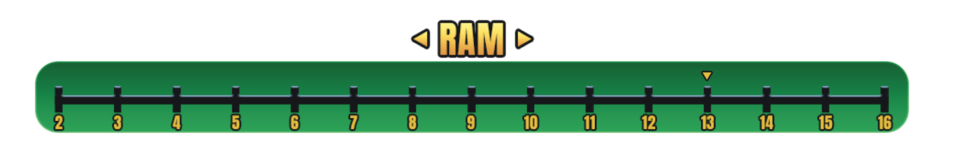
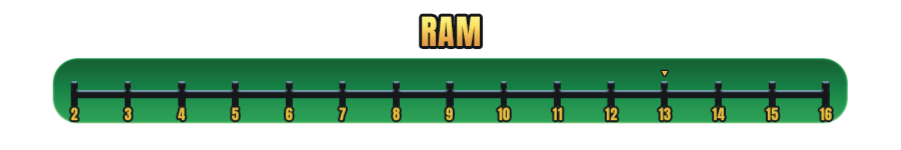
Mise en place des nouveaux renders

Changed region(s): [[0.0311, 0.08, 0.9634, 0.8267]]

diff --git a/src/main/java/fr/pixelmonworld/panels/main/MainPanel.java b/src/main/java/fr/pixelmonworld/panels/main/MainPanel.java
@@ -12,6 +12,7 @@ import fr.pixelmonworld.panels.ram.RamPanel;
 import org.pushingpixels.radiance.animation.api.Timeline;
 
 import javax.swing.*;
+import java.awt.*;
 import java.io.IOException;
 import java.util.Objects;
 
@@ -81,45 +82,48 @@ public class MainPanel extends DefaultLauncherPanel {
 
         // Ajout du logo
         JLabel logo = new JLabel(logoIcon);
-        logo.setBounds(width / 2 - logoIcon.getIconWidth() / 2, 0, logoIcon.getIconWidth(), logoIcon.getIconHeight());
+        logo.setBounds((width - logoIcon.getIconWidth()) / 2, 0, logoIcon.getIconWidth(), logoIcon.getIconHeight());
         this.add(logo);
 
         ImageIcon renderIcon = new ImageIcon(getRandomRenderImage());
 
         // Ajout de l'alerte de news
-        newsAlert = new NewsAlert(this, 40, 255);
+        newsAlert = new NewsAlert(this, 40, 220);
         String isNews = MainFrame.getSaver().get("news");
         newsAlert.setVisible(isNews != null && isNews.equals("true"));
         this.add(newsAlert);
         this.add(new NewsPanel(this, renderIcon.getIconWidth(), renderIcon.getIconHeight(), newsAlert.getX(), newsAlert.getY()));
 
         // Ajout du panel avec l'ensemble des boutons
-        this.add(new ButtonsPanel(this, 483, 702, 1408, 249));
+        this.add(new ButtonsPanel(this, 402, 585, 1174, 206));
 
         // Ajout du panel de connexion
-        this.add(new ConnexionPanel(this, 483, 271, 1408, 976));
+        this.add(new ConnexionPanel(this, 402, 226, 1174, 813));
+
+        // Utilisé pour centrer des éléments par rapport à la fenêtre de visualisation des renders
+        Rectangle rendersWindow = new Rectangle(27, 209, 1125, 831);
 
         // Ajout du panel de ram
-        this.add(new RamPanel(this, 954, 165, 257, 1100));
+        this.add(new RamPanel(this, rendersWindow.width, 150, (int) rendersWindow.getX(), (int) (rendersWindow.getHeight() + rendersWindow.getY() - 150)));
 
         // Ajout du bouton de fermeture
-        this.add(new CloseButton(this, 220));
+        this.add(new CloseButton(this,height - backgroundIcon.getIconHeight()));
 
         render = new RenderJLabel(renderIcon);
 
         // Ajout de la structure de la fenêtre
         JLabel background = new JLabel(backgroundIcon);
-        background.setBounds(0, 0, backgroundIcon.getIconWidth(), backgroundIcon.getIconHeight());
+        background.setBounds(width - backgroundIcon.getIconWidth(), height - backgroundIcon.getIconHeight(), backgroundIcon.getIconWidth(), backgroundIcon.getIconHeight());
         this.add(background);
 
         // Ajout du screen ingame
-        render.setBounds(-81, 215, render.getIcon().getIconWidth(), render.getIcon().getIconHeight());
+        render.setBounds(0, 185, render.getIcon().getIconWidth(), render.getIcon().getIconHeight());
         render.setVisible(true);
         this.add(render);
 
         // Ajout du screen ingame
         render2 = new RenderJLabel(fill);
-        render2.setBounds(-81, 215, render.getIcon().getIconWidth(), render.getIcon().getIconHeight());
+        render2.setBounds(0, 185, render.getIcon().getIconWidth(), render.getIcon().getIconHeight());
         render2.setVisible(false);
         this.add(render2);
 

diff --git a/src/main/java/fr/pixelmonworld/panels/ram/RamPanel.java b/src/main/java/fr/pixelmonworld/panels/ram/RamPanel.java
@@ -38,17 +38,19 @@ public class RamPanel extends DefaultLauncherPanel implements SwingerEventListen
         super(parent, width, height, x, y);
 
         // Bouton permettant de baisser la ram
-        moins = new STexturedButton(getBufferedImage("other/fill.png"), getBufferedImage("other/fill.png"));
-        moins.setBounds(400, 20, 40, 40);
+        moins = new STexturedButton(getBufferedImage("ram/ram_left.png"), getBufferedImage("ram/ram_left.png"));
+        moins.setBounds(this.getWidth() / 2 - 70, 10, 40, 40);
         moins.setCursor(Cursor.getPredefinedCursor(Cursor.HAND_CURSOR));
         moins.addEventListener(this);
+        this.setOpaque(true);
         this.add(moins);
 
         // Bouton permettant d'augmenter la ram
-        plus = new STexturedButton(getBufferedImage("other/fill.png"), getBufferedImage("other/fill.png"));
-        plus.setBounds(500, 20, 40, 40);
+        plus = new STexturedButton(getBufferedImage("ram/ram_right.png"), getBufferedImage("ram/ram_right.png"));
+        plus.setBounds(this.getWidth() / 2 + 30, 10, 40, 40);
         plus.setCursor(Cursor.getPredefinedCursor(Cursor.HAND_CURSOR));
         plus.addEventListener(this);
+        this.setOpaque(true);
         this.add(plus);
 
         // Permet de définir l'affichage de ram par défaut
@@ -63,7 +65,7 @@ public class RamPanel extends DefaultLauncherPanel implements SwingerEventListen
         // Permet de récupérer le background associé à l'endroit de la flèche attendu
         ImageIcon backgroundIcon = new ImageIcon(Objects.requireNonNull(getBufferedImage("ram/ram_" + Launcher.getRam() + ".png")));
         background = new JLabel(backgroundIcon);
-        background.setBounds(0, 0, backgroundIcon.getIconWidth(), backgroundIcon.getIconHeight());
+        background.setBounds((this.getWidth() - backgroundIcon.getIconWidth()) / 2, (this.getHeight() - backgroundIcon.getIconHeight()) / 2, backgroundIcon.getIconWidth(), backgroundIcon.getIconHeight());
         this.add(background);
         this.repaint();
     }

diff --git a/src/main/java/fr/pixelmonworld/panels/buttons/ButtonsPanel.java b/src/main/java/fr/pixelmonworld/panels/buttons/ButtonsPanel.java
@@ -35,27 +35,33 @@ public class ButtonsPanel extends DefaultLauncherPanel {
     public ButtonsPanel(Component parent, int width, int height, int x, int y) throws IOException {
         super(parent, width, height, x, y);
 
+        int currentY = 60;
+
         // Ajout du logo d'erreur
-        this.add(genererImage(60, new ImageIcon(errorLogoImage)));
+        this.add(genererImage(currentY, new ImageIcon(errorLogoImage)));
 
+        currentY += 80;
         // Ajout du texte d'erreur
-        this.add(genererImage(160, new ImageIcon(errorTextImage)));
+        this.add(genererImage(currentY, new ImageIcon(errorTextImage)));
 
+        currentY += 60;
         // Ajout du bouton Update Java
-        this.add(new JavaButton(this, 235));
+        this.add(new JavaButton(this, currentY));
 
+        currentY += 80;
         // Ajout du logo discord
-        this.add(genererImage(360, new ImageIcon(discordLogoImage)));
-
+        this.add(genererImage(currentY, new ImageIcon(discordLogoImage)));
+        currentY += 80;
         // Ajout du texte "Rejoins-nous !"
-        this.add(genererImage(460, new ImageIcon(discordTextImage)));
-
+        this.add(genererImage(currentY, new ImageIcon(discordTextImage)));
+        currentY += 60;
         // Ajout du bouton Discord
-        this.add(new DiscordButton(this, 535));
+        this.add(new DiscordButton(this, currentY));
 
+        currentY += 80;
         // Ajout des boutons Média
-        this.add(new TikTokButton(this, 635));
-        this.add(new YoutubeButton(this, 635));
-        this.add(new TwitterButton(this, 635));
+        this.add(new TikTokButton(this, currentY));
+        this.add(new YoutubeButton(this, currentY));
+        this.add(new TwitterButton(this, currentY));
     }
 }

diff --git a/src/main/java/fr/pixelmonworld/domain/DefaultLauncherButton.java b/src/main/java/fr/pixelmonworld/domain/DefaultLauncherButton.java
@@ -22,20 +22,9 @@ public class DefaultLauncherButton extends STexturedButton implements SwingerEve
      * @param image L'image à afficher.
      */
     public DefaultLauncherButton(Component parent, int y, BufferedImage image) {
-        this(parent, parent.getWidth() / 2, y, image);
-    }
-
-    /**
-     * Constructeur par défaut permettant de créer un bouton.
-     * @param parent Le parent à appeler pour repaint lors d'une mise à jour graphique.
-     * @param x L'axe X sur lequel afficher l'image.
-     * @param y L'axe Y sur lequel afficher l'image.
-     * @param image L'image à afficher.
-     */
-    public DefaultLauncherButton(Component parent, int x, int y, BufferedImage image) {
         super(image, image);
         this.parent = parent;
-        this.setBounds(x - image.getWidth() / 2, y - image.getHeight() / 2, image.getWidth(), image.getHeight());
+        this.setBounds((parent.getWidth() - image.getWidth()) / 2, y - image.getHeight() / 2, image.getWidth(), image.getHeight());
         this.addEventListener(this);
         this.setCursor(Cursor.getPredefinedCursor(Cursor.HAND_CURSOR));
     }

diff --git a/src/main/java/fr/pixelmonworld/panels/buttons/TikTokButton.java b/src/main/java/fr/pixelmonworld/panels/buttons/TikTokButton.java
@@ -23,7 +23,7 @@ public class TikTokButton extends DefaultLauncherButton {
      */
     public TikTokButton(Component parent, int y) throws IOException {
         super(parent, y, getBufferedImage("buttons/medias/tiktok_button.png"));
-        this.setBounds(this.getX() / 2, this.getY(), this.getWidth(), this.getHeight());
+        this.setBounds(20, this.getY(), this.getWidth(), this.getHeight());
     }
 
     /**
@@ -33,7 +33,7 @@ public class TikTokButton extends DefaultLauncherButton {
     @Override
     public void onEvent(SwingerEvent swingerEvent) {
         try {
-            Desktop.getDesktop().browse(URI.create("https://www.java.com/fr/download/manual.jsp"));
+            Desktop.getDesktop().browse(URI.create("https://www.tiktok.com/@PixelmonWorldFR"));
         } catch (IOException e) {
             Launcher.erreurInterne(e);
         }

diff --git a/src/main/java/fr/pixelmonworld/Launcher.java b/src/main/java/fr/pixelmonworld/Launcher.java
@@ -132,8 +132,8 @@ public class Launcher {
                         result.getAccessToken(),
                         result.getProfile().getId()
                 );
-            } catch (MicrosoftAuthenticationException e) {
-                MainFrame.getSaver().set("refresh_token", null);
+            } catch (Exception e) {
+                MainFrame.getSaver().set("refresh_token", "");
                 getReporter().catchError(e, "Impossible de se connecter à Microsoft automatiquement. Relancez le launcher.");
             }
             return true;

diff --git a/src/main/java/fr/pixelmonworld/panels/buttons/TwitterButton.java b/src/main/java/fr/pixelmonworld/panels/buttons/TwitterButton.java
@@ -23,7 +23,7 @@ public class TwitterButton extends DefaultLauncherButton {
      */
     public TwitterButton(Component parent, int y) throws IOException {
         super(parent, y, getBufferedImage("buttons/medias/twitter_button.png"));
-        this.setBounds(this.getX() + this.getX() / 2, this.getY(), this.getWidth(), this.getHeight());
+        this.setBounds(parent.getWidth() - this.getWidth() - 20, this.getY(), this.getWidth(), this.getHeight());
     }
 
     /**

diff --git a/src/main/java/fr/pixelmonworld/panels/main/CloseButton.java b/src/main/java/fr/pixelmonworld/panels/main/CloseButton.java
@@ -21,7 +21,9 @@ public class CloseButton extends DefaultLauncherButton {
      */
     public CloseButton(Component parent, int y) throws IOException {
         super(parent, y, getBufferedImage("buttons/close_button.png"));
-        this.setBounds(parent.getWidth() - this.getWidth() - 10, y);
+        this.setBounds(parent.getWidth() - this.getWidth(), y);
+        this.setBackground(new Color(1.0f,1.0f,1.0f,1.0f));
+        this.setOpaque(true);
     }
 
     /**

diff --git a/src/main/java/fr/pixelmonworld/MainFrame.java b/src/main/java/fr/pixelmonworld/MainFrame.java
@@ -35,7 +35,7 @@ public class MainFrame extends JFrame {
         // Définit les éléments basique de l'application (taille, titre, icône...)
         this.setTitle("Launcher PixelmonWorld");
         this.setDefaultCloseOperation(EXIT_ON_CLOSE);
-        this.setSize(1920, 1290);
+        this.setSize(1600, 1075);
         this.setUndecorated(true);
         this.setBackground(new Color(1.0f,1.0f,1.0f,0.0f));
         this.setLocationRelativeTo(null);

diff --git a/src/main/java/fr/pixelmonworld/utils/ResourcesUtils.java b/src/main/java/fr/pixelmonworld/utils/ResourcesUtils.java
@@ -50,7 +50,8 @@ public class ResourcesUtils {
             number = random.nextInt(14 - 1 + 1) + 1;
         } while (number == lastRandomImage);
         lastRandomImage = number;
-        return getBufferedImage("renders/render_" + lastRandomImage + ".jpg");
+//        return getBufferedImage("renders/render_" + lastRandomImage + ".jpg");
+        return getBufferedImage("renders/render_test.png");
     }
 
     /**

diff --git a/src/main/java/fr/pixelmonworld/domain/DefaultLauncherPanel.java b/src/main/java/fr/pixelmonworld/domain/DefaultLauncherPanel.java
@@ -22,6 +22,7 @@ public class DefaultLauncherPanel extends JPanel {
         // Permet de pouvoir placer les éléments en X, Y
         this.setLayout(null);
         this.setDoubleBuffered(true);
+        this.setOpaque(true);
         // Permet d'avoir un fond transparent
         this.setBackground(new Color(1.0f,1.0f,1.0f,0.0f));
         // Permet de définir la taille de l'application et son emplacement en X, Y
